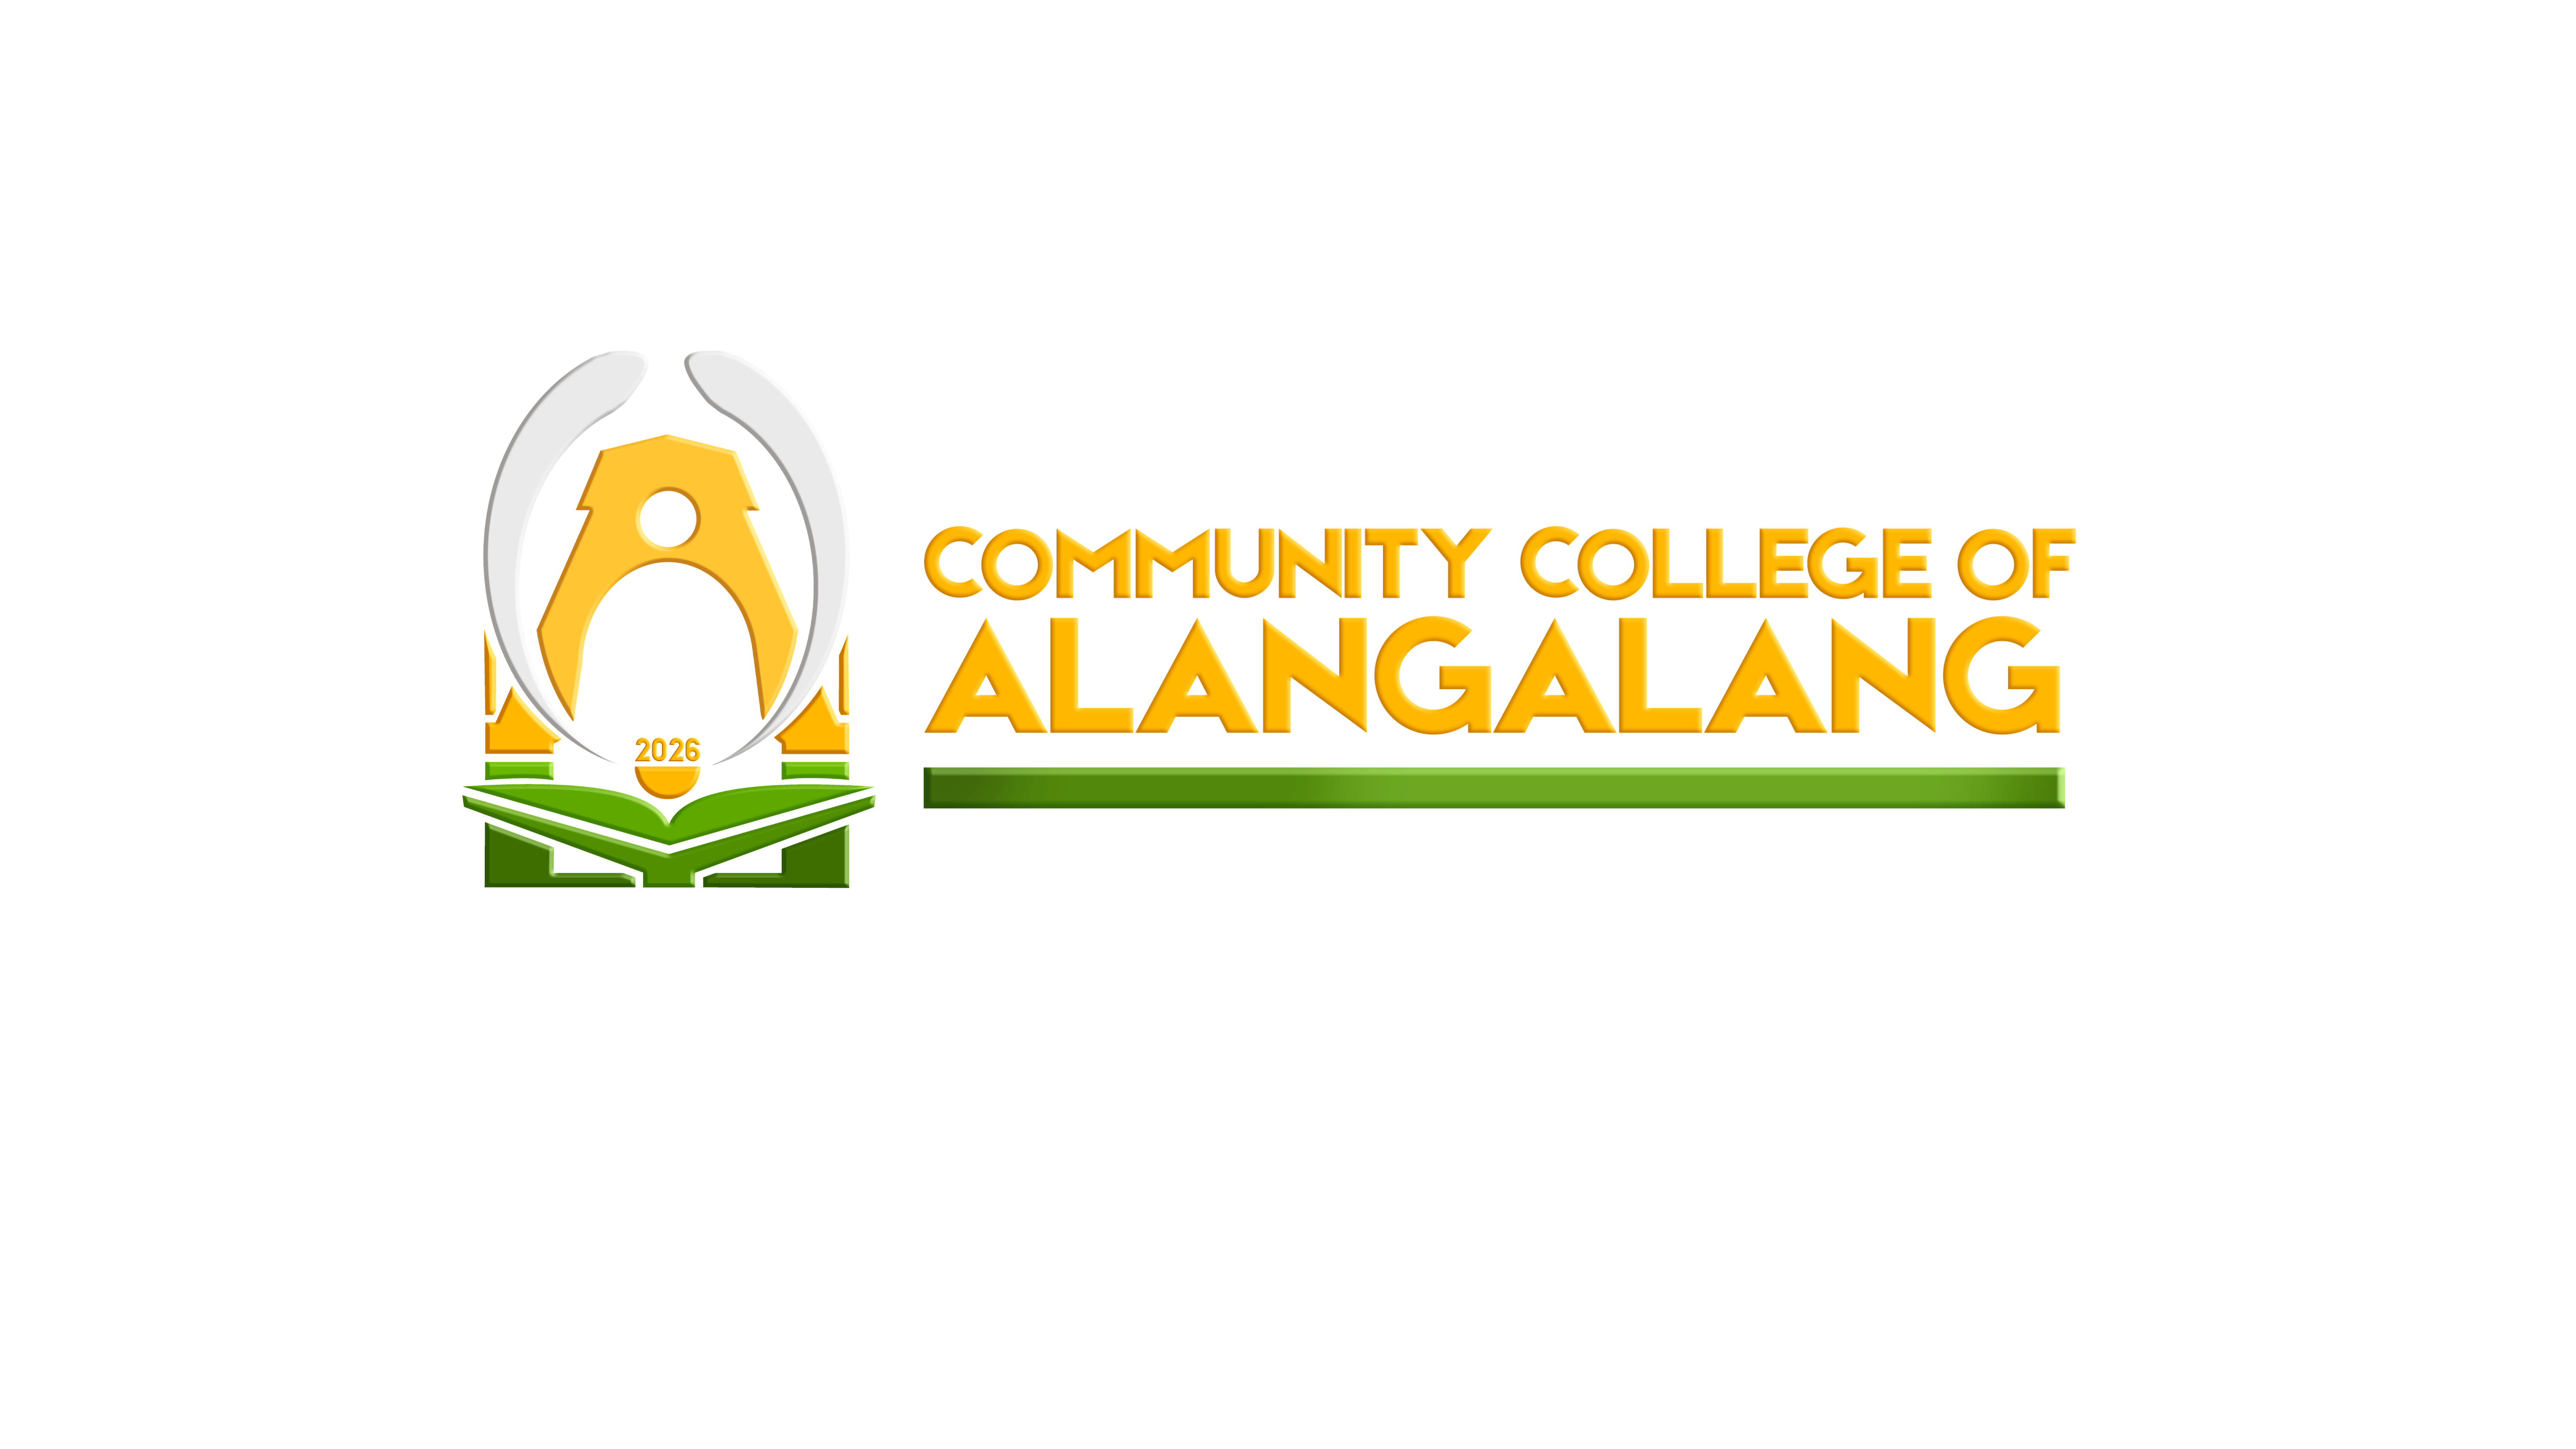
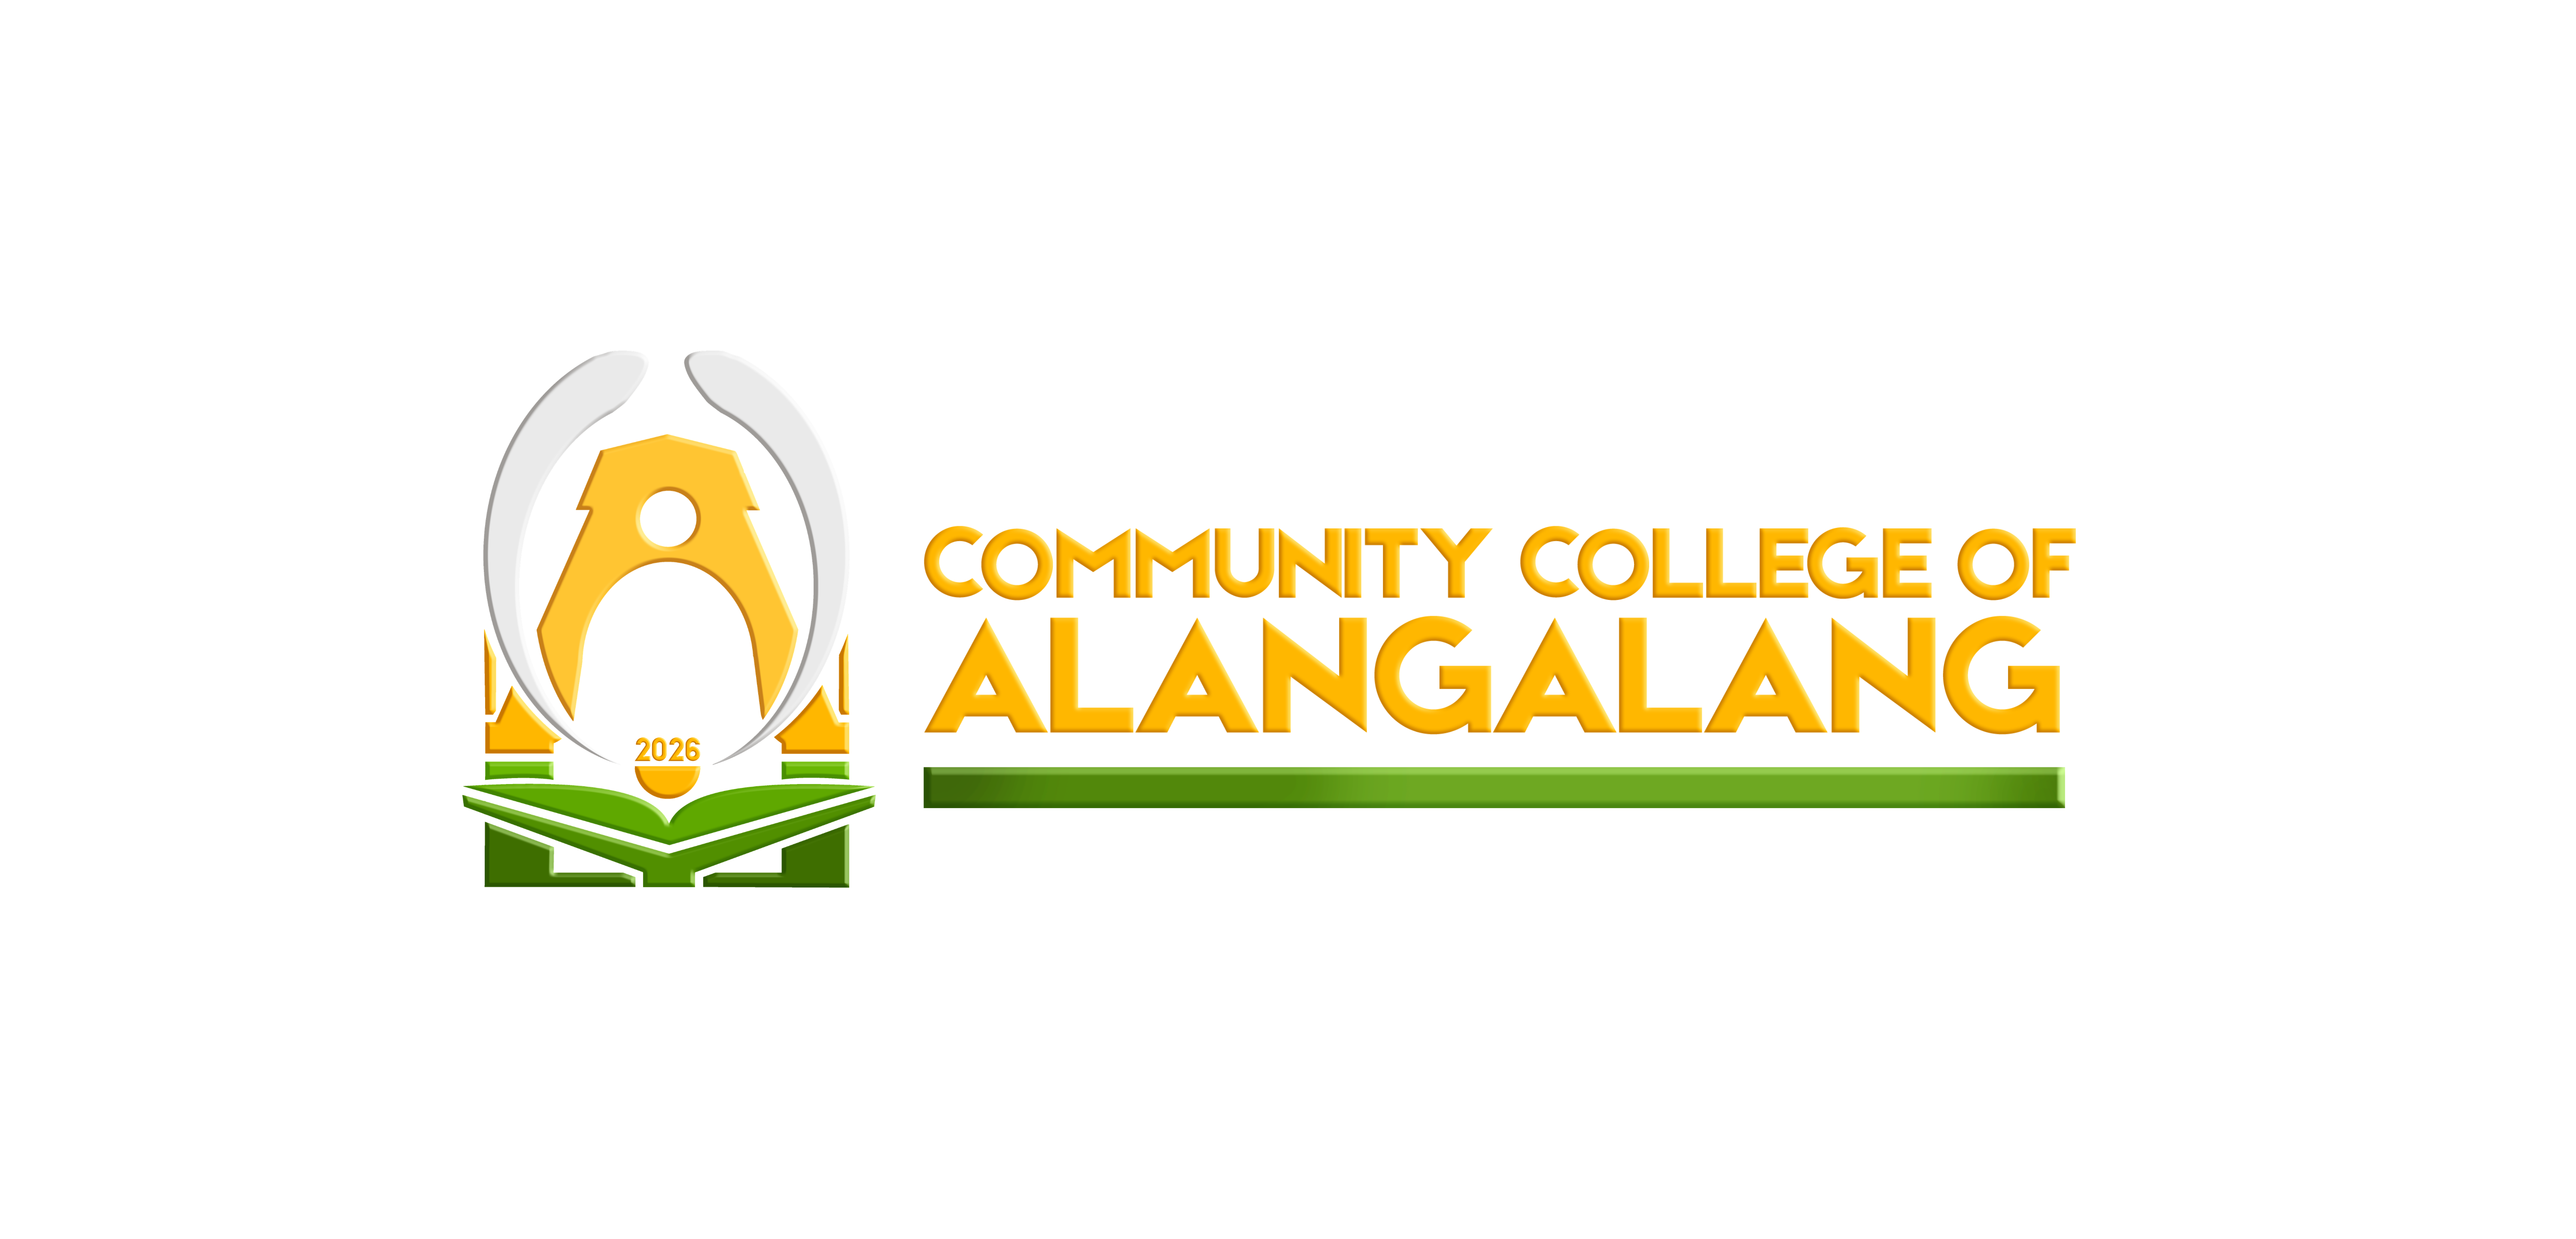
feat: full update — footer, graduation, student filters

Changed region(s): [[0.187, 0.2806, 0.8103, 0.717]]

diff --git a/src/pages/AddStudents.jsx b/src/pages/AddStudents.jsx
@@ -687,8 +687,8 @@ export default function AddStudents({ user = {} }) {
           />
         </div>
 
-        {/* Filters */}
-        <div style={{ display: "flex", gap: "8px", alignItems: "center", flexWrap: "wrap" }}>
+        <div style={{ display: "flex", alignItems: "center", gap: "8px", flexWrap: "wrap" }}>
+          {/* Filters */}
           <select value={filterCourse} onChange={e => setFilterCourse(e.target.value)}
             style={{ padding: "7px 10px", border: `1px solid ${BORDER}`, borderRadius: "6px", fontSize: "12px", color: filterCourse ? "#111827" : GRAY, outline: "none", background: "#fff", cursor: "pointer" }}>
             <option value="">All Courses</option>
@@ -706,23 +706,15 @@ export default function AddStudents({ user = {} }) {
           </select>
           {(filterCourse || filterYear || filterSection) && (
             <button type="button" onClick={() => { setFilterCourse(""); setFilterYear(""); setFilterSection(""); }}
-              style={{ padding: "7px 10px", fontSize: "11px", background: "#FEE2E2", color: RED, border: `1px solid #FCA5A5`, borderRadius: "6px", cursor: "pointer", fontWeight: 700 }}>
-              ✕ Clear
+              style={{ padding: "7px 8px", fontSize: "11px", background: "#FEE2E2", color: RED, border: `1px solid #FCA5A5`, borderRadius: "6px", cursor: "pointer", fontWeight: 700 }}>
+              ✕
             </button>
           )}
-        </div>
-
-        <div style={{ display: "flex", alignItems: "center", gap: "10px" }}>
           {/* Refresh button */}
-          <button
-            type="button"
-            onClick={fetchStudentDirectory}
-            title="Refresh list"
-            style={{ padding: "7px 11px", background: WHITE, color: GRAY, border: `1px solid ${BORDER}`, borderRadius: "6px", fontSize: "12px", cursor: "pointer" }}
-          >
+          <button type="button" onClick={fetchStudentDirectory} title="Refresh list"
+            style={{ padding: "7px 11px", background: WHITE, color: GRAY, border: `1px solid ${BORDER}`, borderRadius: "6px", fontSize: "12px", cursor: "pointer" }}>
             🔄
           </button>
-
           {/* Info badge */}
           <div style={{ padding: "6px 11px", background: LIGHT_GRAY, border: `1px solid ${BORDER}`, borderRadius: "6px", fontSize: "11px", color: GRAY, fontWeight: 600 }}>
             {studentsWithRole.length} student{studentsWithRole.length !== 1 ? "s" : ""} enrolled

diff --git a/src/CCALoginPortal.jsx b/src/CCALoginPortal.jsx
@@ -135,7 +135,7 @@ function LandingPage({ onGoLogin }) {
           {/* Col 1 — CCA Logo */}
           <div style={{ display: "flex", flexDirection: "column", alignItems: "center", gap: 8, paddingRight: 20, borderRight: "1px solid " + BORDER }}>
             <img src={ccaLogo} alt="CCA Logo"
-              style={{ width: 80, height: 80, borderRadius: "50%", objectFit: "cover", border: "none" }} />
+              style={{ width: 160, height: 160, borderRadius: "50%", objectFit: "cover", border: "none" }} />
             <div style={{ textAlign: "center" }}>
               <div style={{ fontSize: 10, color: GRAY, marginTop: 2 }}>Data Privacy Statement</div>
               <div style={{ fontSize: 10, color: GRAY, marginTop: 2 }}>Terms of Service</div>
@@ -146,7 +146,7 @@ function LandingPage({ onGoLogin }) {
           <div style={{ padding: "0 20px", borderRight: "1px solid " + BORDER }}>
             <div style={{ fontWeight: 800, fontSize: 11, color: "#111827", marginBottom: 5 }}>MISSION:</div>
             <div style={{ fontSize: 10, color: "#374151", lineHeight: 1.6 }}>
-              To provide quality and accessible higher education that empowers students with knowledge, skills, and values for community service and national development.
+              Community College of Alangalang commits to develop lifelong learners and values-driven professionals through student-centered and gender-responsive education, promoting excellence in the fields of education, health, environmental sustainability, security, management, accounting, information communication and technology. It upholds quality through competent, qualified, and values-oriented faculty and administrators, while delivering technology-driven, innovative, outcomes-based, and research-based programs that provide accessible and responsive education to effectively address local, national, and global challenges.
             </div>
           </div>
 
@@ -154,7 +154,7 @@ function LandingPage({ onGoLogin }) {
           <div style={{ padding: "0 20px", borderRight: "1px solid " + BORDER }}>
             <div style={{ fontWeight: 800, fontSize: 11, color: "#111827", marginBottom: 5 }}>VISION:</div>
             <div style={{ fontSize: 10, color: "#374151", lineHeight: 1.6 }}>
-              A premier community college producing competent, morally upright, and socially responsible graduates who contribute to the sustainable development of Alangalang and beyond.
+              An inclusive, values-driven community college promoting quality education fostering sustainable development and transformative social change.
             </div>
           </div>
 
@@ -162,7 +162,7 @@ function LandingPage({ onGoLogin }) {
           <div style={{ padding: "0 20px", borderRight: "1px solid " + BORDER }}>
             <div style={{ fontWeight: 800, fontSize: 11, color: "#111827", marginBottom: 5 }}>CLASS HOURS:</div>
             <div style={{ fontSize: 10, color: "#374151", marginBottom: 2 }}>Monday – Friday</div>
-            <div style={{ fontSize: 10, color: "#374151", fontWeight: 700, marginBottom: 10 }}>07:30AM – 05:00PM</div>
+            <div style={{ fontSize: 10, color: "#374151", fontWeight: 700, marginBottom: 10 }}>07:00AM – 05:00PM</div>
             <div style={{ fontWeight: 800, fontSize: 11, color: "#111827", marginBottom: 5 }}>ADDRESS:</div>
             <div style={{ fontSize: 10, color: "#374151", lineHeight: 1.6 }}>
               Community College of Alangalang,<br />Leyte, Philippines
@@ -176,7 +176,9 @@ function LandingPage({ onGoLogin }) {
             <div style={{ fontSize: 10, color: "#374151", marginBottom: 2 }}>[phone redacted]</div>
             <div style={{ fontSize: 10, color: "#374151", marginBottom: 8 }}>[phone redacted]</div>
             <div style={{ fontSize: 10, color: GRAY, fontWeight: 700 }}>Email:</div>
-            <div style={{ fontSize: 10, color: GREEN }}>[email redacted]</div>
+            <div style={{ fontSize: 10, color: GREEN }}>[email redacted]</div>
+            <div style={{ fontSize: 10, color: GRAY, fontWeight: 700 }}>Facebook Page:</div>
+            <div style={{ fontSize: 10, color: GREEN }}>Community College of Alangalang</div>
           </div>
         </div>
 

diff --git a/cca-backend/server.js b/cca-backend/server.js
@@ -10,7 +10,7 @@ app.use(
       const allowedOrigins = [
         "http://localhost:5173",
         "http://127.0.0.1:5173",
-        "http://192.168.0.118:5173",
+        "http://192.168.0.120:5173",
       ];
       if (!origin || allowedOrigins.includes(origin)) {
         callback(null, true);